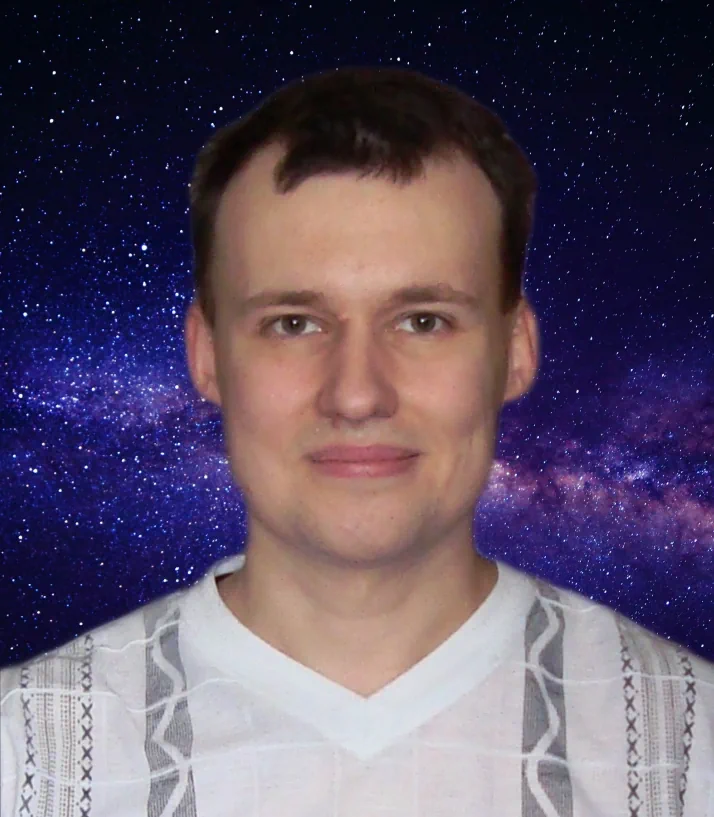
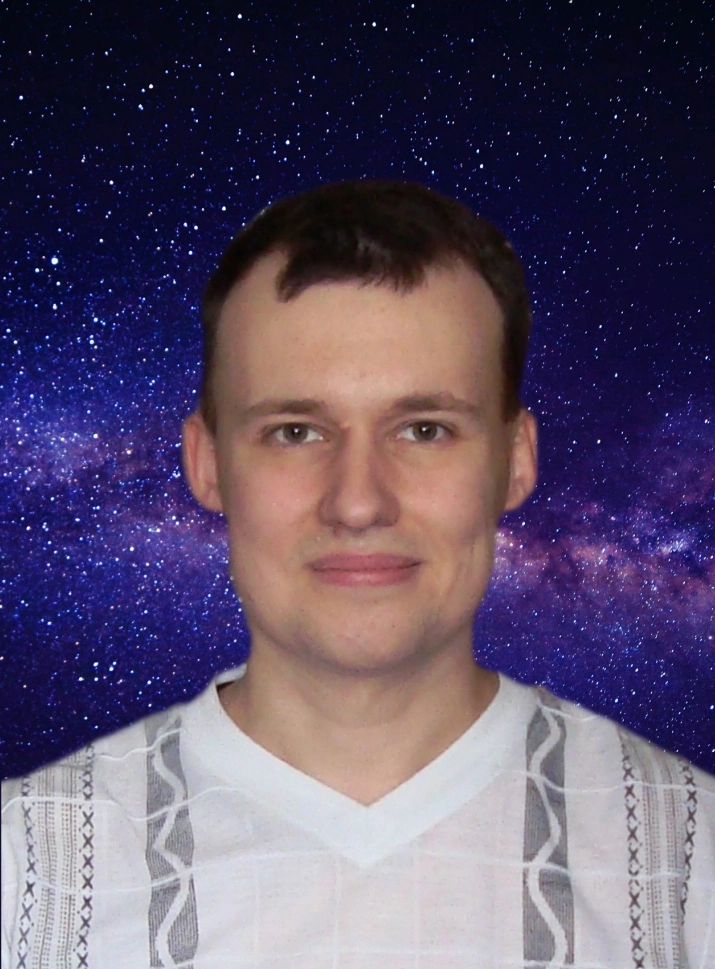
my owner photo updated

diff --git a/pages/computer-master-balashiha.tsx b/pages/computer-master-balashiha.tsx
@@ -143,8 +143,8 @@ export const getStaticProps = async (context: GetStaticPropsContext) => {
     article.image = {
       ...article.image,
       url: `/images/computer_master_photo_balashikha.webp`,
-      width: 714,
-      height: 817,
+      width: 715,
+      height: 969,
       alt: `Дмитрий, компьютерный мастер в Балашихе, выпускник МГТУ МИРЭА (РТУ МИРЭА)`,
       orderNumber: null,
       originalWidth: null,
